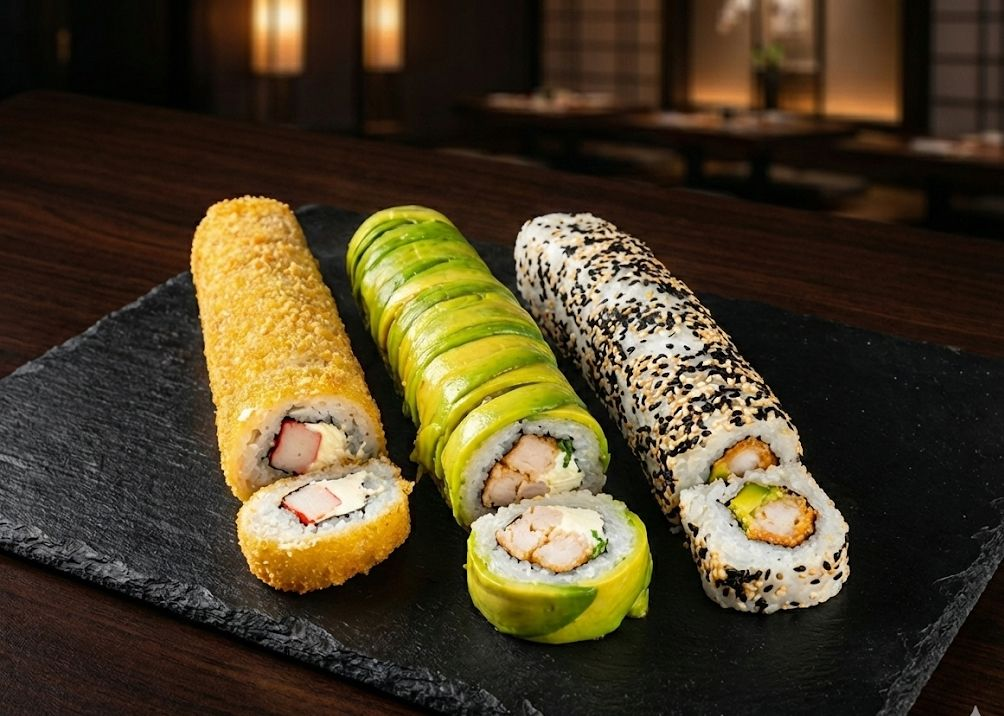
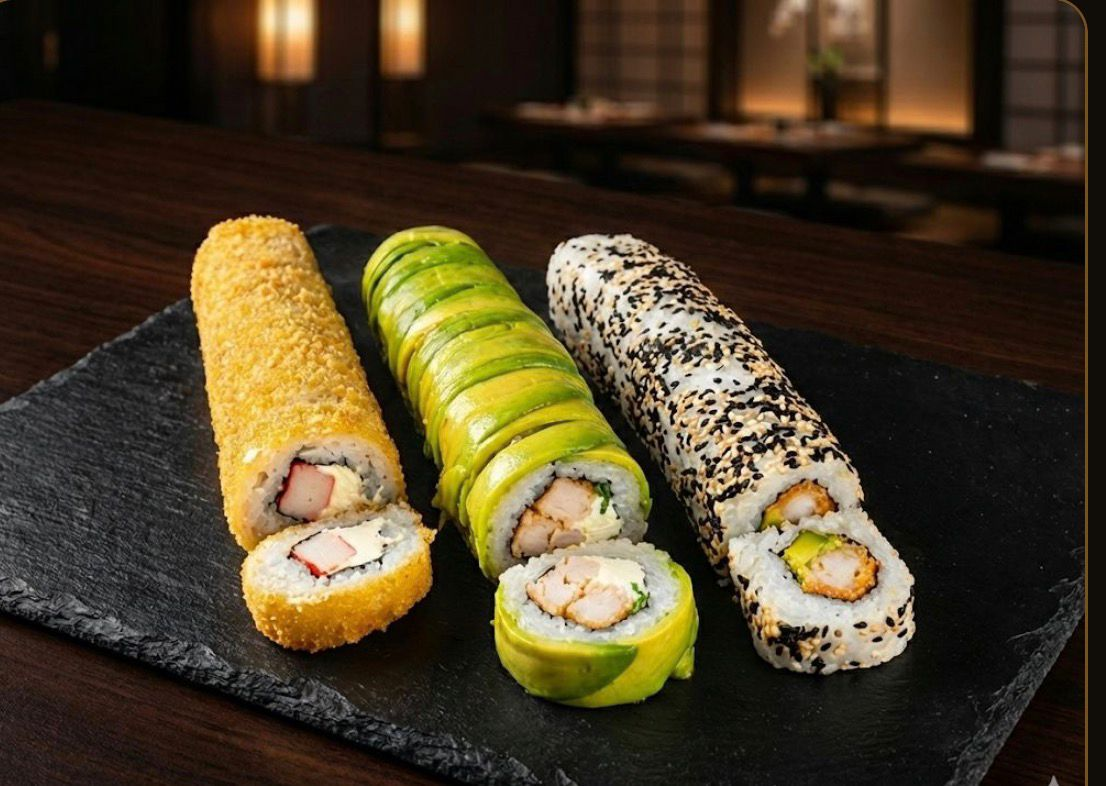
Actualizar fotos de promos, gyosas con imagen por cocción y descripciones Día del Sushi
- Reemplaza fotos de Promo 20 Fritas/Premium, 30 Fritas/Mixtas y 40 Mixtas
- Agrega imagen de gyosas que cambia según Frita/Al Vapor en ENTRADAS
- Indica tamaño "Lata 350ml" en las bebidas
- Agrega descripciones detalladas a las promos del Día del Sushi (menú y poster)
- Activa la campaña Día del Sushi (modal, botones y sección) y quita "c/u" del monto
- Sube caché del service worker a voraz-v3

diff --git a/index.html b/index.html
@@ -1162,14 +1162,17 @@
                 <!-- Promo Frita -->
                 <div class="relative bg-slate-900 rounded-lg overflow-hidden shadow-sm border border-slate-700 flex flex-col">
                     <span class="badge-nuevo">Nuevo</span>
-                    <img src="img/promo-frita.jpeg" alt="Promo Frita - 20 rollos fritos" class="w-full aspect-[11/10] object-cover object-center bg-slate-800" loading="lazy">
+                    <img src="img/promo-frita.jpeg" alt="Promo Frita - 20 piezas fritas" class="w-full aspect-[11/10] object-cover object-center bg-slate-800" loading="lazy">
                     <div class="p-3 flex flex-col flex-grow">
                         <div class="flex justify-between items-baseline">
                             <h3 class="text-xl text-white">Promo Frita</h3>
                             <span class="text-amber-600 font-bold">$7.490</span>
                         </div>
-                        <p class="text-xs text-amber-600 mb-2">(20 rollos)</p>
-                        <p class="text-xs text-slate-400 mb-3 flex-grow">Combo frito · 20 rollos.</p>
+                        <p class="text-xs text-amber-600 mb-2">(20 piezas)</p>
+                        <ul class="text-xs text-slate-400 mb-3 flex-grow space-y-1.5">
+                            <li class="flex items-start gap-1.5"><i class="fas fa-circle text-[5px] text-amber-500 mt-1.5"></i><span>10 piezas envueltas en nori frito con relleno de queso crema, cebollín y topping de pollo con teriyaki</span></li>
+                            <li class="flex items-start gap-1.5"><i class="fas fa-circle text-[5px] text-amber-500 mt-1.5"></i><span>10 piezas fritas rellenas de queso crema y kanikama, coronadas con pasta dinamita</span></li>
+                        </ul>
                         <!-- Fila de agregar (botón propio de la sección; se ve cuando seccion está encendida) -->
                         <div class="flex items-center justify-end gap-2 mt-auto">
                             <div class="flex items-center bg-slate-800 rounded-full">
@@ -1177,7 +1180,7 @@
                                 <input id="qtyDiaSushi1" type="number" value="1" min="1" max="10" class="w-8 bg-transparent text-white text-center text-sm focus:outline-none">
                                 <button onclick="changeQty('qtyDiaSushi1', 1)" class="w-6 h-6 text-white hover:bg-slate-700 rounded-full text-sm">+</button>
                             </div>
-                            <button onclick="addWithQty('Promo Frita (20 rollos)', 7490, 'qtyDiaSushi1')" class="text-xs bg-amber-500 hover:bg-amber-600 text-white px-3 py-1.5 rounded-full font-bold transition-colors click-shrink flex items-center gap-1">
+                            <button onclick="addWithQty('Promo Frita (20 piezas)', 7490, 'qtyDiaSushi1')" class="text-xs bg-amber-500 hover:bg-amber-600 text-white px-3 py-1.5 rounded-full font-bold transition-colors click-shrink flex items-center gap-1">
                                 <i class="fas fa-plus"></i> AGREGAR
                             </button>
                         </div>
@@ -1187,14 +1190,17 @@
                 <!-- Promo Fría -->
                 <div class="relative bg-slate-900 rounded-lg overflow-hidden shadow-sm border border-slate-700 flex flex-col">
                     <span class="badge-nuevo">Nuevo</span>
-                    <img src="img/promo-fria.jpeg" alt="Promo Fría - 20 rollos fríos" class="w-full aspect-[11/10] object-cover object-center bg-slate-800" loading="lazy">
+                    <img src="img/promo-fria.jpeg" alt="Promo Fría - 20 piezas frías" class="w-full aspect-[11/10] object-cover object-center bg-slate-800" loading="lazy">
                     <div class="p-3 flex flex-col flex-grow">
                         <div class="flex justify-between items-baseline">
                             <h3 class="text-xl text-white">Promo Fría</h3>
                             <span class="text-amber-600 font-bold">$7.490</span>
                         </div>
-                        <p class="text-xs text-amber-600 mb-2">(20 rollos)</p>
-                        <p class="text-xs text-slate-400 mb-3 flex-grow">Combo frío · 20 rollos.</p>
+                        <p class="text-xs text-amber-600 mb-2">(20 piezas)</p>
+                        <ul class="text-xs text-slate-400 mb-3 flex-grow space-y-1.5">
+                            <li class="flex items-start gap-1.5"><i class="fas fa-circle text-[5px] text-amber-500 mt-1.5"></i><span>10 piezas frías rellenas de palta y queso crema con topping de camarón y salsa acevichada</span></li>
+                            <li class="flex items-start gap-1.5"><i class="fas fa-circle text-[5px] text-amber-500 mt-1.5"></i><span>10 piezas envueltas en sésamo con relleno de pollo, palta y queso crema, bañadas en salsa de maracuyá</span></li>
+                        </ul>
                         <!-- Fila de agregar (botón propio de la sección; se ve cuando seccion está encendida) -->
                         <div class="flex items-center justify-end gap-2 mt-auto">
                             <div class="flex items-center bg-slate-800 rounded-full">
@@ -1202,7 +1208,7 @@
                                 <input id="qtyDiaSushi2" type="number" value="1" min="1" max="10" class="w-8 bg-transparent text-white text-center text-sm focus:outline-none">
                                 <button onclick="changeQty('qtyDiaSushi2', 1)" class="w-6 h-6 text-white hover:bg-slate-700 rounded-full text-sm">+</button>
                             </div>
-                            <button onclick="addWithQty('Promo Fría (20 rollos)', 7490, 'qtyDiaSushi2')" class="text-xs bg-amber-500 hover:bg-amber-600 text-white px-3 py-1.5 rounded-full font-bold transition-colors click-shrink flex items-center gap-1">
+                            <button onclick="addWithQty('Promo Fría (20 piezas)', 7490, 'qtyDiaSushi2')" class="text-xs bg-amber-500 hover:bg-amber-600 text-white px-3 py-1.5 rounded-full font-bold transition-colors click-shrink flex items-center gap-1">
                                 <i class="fas fa-plus"></i> AGREGAR
                             </button>
                         </div>
@@ -2066,7 +2072,7 @@
 
                 <!-- Promo 20 Voraz Fritas -->
                 <div class="bg-slate-900 rounded-xl border border-slate-700 hover:border-amber-500/50 transition-all shadow-sm hover:shadow-md overflow-hidden">
-                    <img src="img/20-voraz-fritos.jpeg" alt="20 Voraz Fritos" class="w-full object-contain bg-slate-800" loading="lazy">
+                    <img src="img/20-voraz-fritos.png" alt="20 Voraz Fritos" class="w-full object-contain bg-slate-800" loading="lazy">
                     <div class="bg-gradient-to-r from-slate-800 to-slate-700 border-b border-slate-700 p-3 flex items-center justify-between">
                         <div>
                             <span class="text-xl md:text-2xl font-bold text-white">20 Voraz</span>
@@ -2150,7 +2156,7 @@
 
                 <!-- Promo 20 Voraz Mixtas Premium -->
                 <div class="bg-slate-900 rounded-xl border border-slate-700 hover:border-amber-500/50 transition-all shadow-sm hover:shadow-md overflow-hidden">
-                    <img src="img/20-voraz-premium.jpeg" alt="20 Voraz Mixtas Premium" class="w-full object-contain bg-slate-800" loading="lazy">
+                    <img src="img/20-voraz-premium.png" alt="20 Voraz Mixtas Premium" class="w-full object-contain bg-slate-800" loading="lazy">
                     <div class="bg-gradient-to-r from-slate-800 to-slate-700 border-b border-slate-700 p-3 flex items-center justify-between">
                         <div>
                             <span class="text-2xl font-bold">20 Voraz</span>
@@ -2192,7 +2198,7 @@
 
                 <!-- Promo 30 Voraz Fritas -->
                 <div class="bg-slate-900 rounded-xl border border-slate-700 hover:border-amber-500/50 transition-all shadow-sm hover:shadow-md overflow-hidden">
-                    <img src="img/30-voraz-fritas.jpeg" alt="30 Voraz Fritas" class="w-full object-contain bg-slate-800" loading="lazy">
+                    <img src="img/30-voraz-fritas.png" alt="30 Voraz Fritas" class="w-full object-contain bg-slate-800" loading="lazy">
                     <div class="bg-gradient-to-r from-slate-800 to-slate-700 border-b border-slate-700 p-3 flex items-center justify-between">
                         <div>
                             <span class="text-xl md:text-2xl font-bold text-white">30 Voraz</span>
@@ -2334,7 +2340,7 @@
 
                 <!-- Promo 40 Voraz Mixtas -->
                 <div class="bg-slate-900 rounded-xl border border-slate-700 hover:border-amber-500/50 transition-all shadow-sm hover:shadow-md overflow-hidden">
-                    <img src="img/40-voraz-mixtas.jpeg" alt="40 Voraz Mixtas" class="w-full object-contain bg-slate-800" loading="lazy">
+                    <img src="img/40-voraz-mixtas.png" alt="40 Voraz Mixtas" class="w-full object-contain bg-slate-800" loading="lazy">
                     <div class="bg-gradient-to-r from-slate-800 to-slate-700 border-b border-slate-700 p-3 flex items-center justify-between">
                         <div>
                             <span class="text-xl md:text-2xl font-bold text-white">40 Voraz</span>
@@ -2905,6 +2911,8 @@
                      <h3 class="text-xl text-white mb-2"><i class="fas fa-dumpling text-amber-500 mr-2"></i> GYOSAS (5 Unid.)</h3>
                      <p class="text-slate-400 italic text-xs mb-3">Empanaditas japonesas</p>
 
+                     <img id="gyosaImg" src="img/gyosa-frita.jpeg" alt="Gyosas Fritas" class="w-full h-44 object-cover rounded-lg mb-3 bg-slate-800">
+
                      <div class="space-y-3">
                         <!-- Gyosa Cerdo -->
                         <div class="border-b border-slate-700 pb-3">
@@ -3054,23 +3062,26 @@
                 <h2 class="text-3xl text-white mr-2">BEBIDAS <span class="text-blue-500">🥤</span></h2>
                 <div class="h-0.5 bg-slate-700 flex-grow"></div>
             </div>
-            <p class="text-slate-400 text-xs mb-4 italic">Refrescantes bebidas para acompañar</p>
+            <p class="text-slate-400 text-xs mb-4 italic">Refrescantes bebidas para acompañar · Lata 350ml</p>
 
             <div class="bg-slate-900 p-3 rounded-lg border border-slate-700 shadow-sm">
                 <div class="grid grid-cols-3 gap-2">
-                    <button onclick="addToCart('Coca-Cola', 1000)" class="bg-red-600 hover:bg-red-700 text-white py-2 px-1.5 rounded-lg text-xs font-bold click-shrink flex flex-col items-center justify-center gap-0.5">
+                    <button onclick="addToCart('Coca-Cola (Lata 350ml)', 1000)" class="bg-red-600 hover:bg-red-700 text-white py-2 px-1.5 rounded-lg text-xs font-bold click-shrink flex flex-col items-center justify-center gap-0.5">
                         <i class="fas fa-wine-bottle text-sm"></i>
                         <span>Coca-Cola</span>
+                        <span class="text-[9px] opacity-80">Lata 350ml</span>
                         <span class="text-[10px]">$1.000</span>
                     </button>
-                    <button onclick="addToCart('Fanta', 1000)" class="bg-orange-500 hover:bg-orange-600 text-white py-2 px-1.5 rounded-lg text-xs font-bold click-shrink flex flex-col items-center justify-center gap-0.5">
+                    <button onclick="addToCart('Fanta (Lata 350ml)', 1000)" class="bg-orange-500 hover:bg-orange-600 text-white py-2 px-1.5 rounded-lg text-xs font-bold click-shrink flex flex-col items-center justify-center gap-0.5">
                         <i class="fas fa-wine-bottle text-sm"></i>
                         <span>Fanta</span>
+                        <span class="text-[9px] opacity-80">Lata 350ml</span>
                         <span class="text-[10px]">$1.000</span>
                     </button>
-                    <button onclick="addToCart('Sprite', 1000)" class="bg-green-500 hover:bg-green-600 text-white py-2 px-1.5 rounded-lg text-xs font-bold click-shrink flex flex-col items-center justify-center gap-0.5">
+                    <button onclick="addToCart('Sprite (Lata 350ml)', 1000)" class="bg-green-500 hover:bg-green-600 text-white py-2 px-1.5 rounded-lg text-xs font-bold click-shrink flex flex-col items-center justify-center gap-0.5">
                         <i class="fas fa-wine-bottle text-sm"></i>
                         <span>Sprite</span>
+                        <span class="text-[9px] opacity-80">Lata 350ml</span>
                         <span class="text-[10px]">$1.000</span>
                     </button>
                 </div>
@@ -3422,8 +3433,8 @@
         // ============================================
         const DIA_SUSHI = {
             modal: true,       // 1) ventana emergente al entrar/refrescar (solo el afiche, sin botón)
-            modalBoton: false, // 2) botón AGREGAR dentro del modal (agrega la promo automático al carrito)
-            seccion: false,    // 3) sección "Día del Sushi" + pestaña (sus tarjetas traen su propio botón)
+            modalBoton: true,  // 2) botón AGREGAR dentro del modal (agrega la promo automático al carrito)
+            seccion: true,     // 3) sección "Día del Sushi" + pestaña (sus tarjetas traen su propio botón)
         };
 
         function openDiaSushiModal() {
@@ -3475,6 +3486,18 @@
                 btnVapor.classList.remove('text-slate-400');
                 btnFrita.classList.remove('bg-amber-500', 'text-white');
                 btnFrita.classList.add('text-slate-400');
+            }
+
+            // Mostrar la imagen según el tipo de cocción seleccionado
+            const gyosaImg = document.getElementById('gyosaImg');
+            if (gyosaImg) {
+                if (tipo === 'frita') {
+                    gyosaImg.src = 'img/gyosa-frita.jpeg';
+                    gyosaImg.alt = 'Gyosas Fritas';
+                } else {
+                    gyosaImg.src = 'img/gyosa-vapor.jpeg';
+                    gyosaImg.alt = 'Gyosas Al Vapor';
+                }
             }
         }
 
@@ -4568,7 +4591,7 @@
                  Las 2 ventanas grises (FOTO PROMO 1 / 2) son donde van tus fotos.
                  ============================================================ -->
             <svg viewBox="0 0 800 1060" xmlns="http://www.w3.org/2000/svg" role="img"
-                 aria-label="Promo Día del Sushi: 2 promos, $7.490 cada una, 20 rollos"
+                 aria-label="Promo Día del Sushi: 2 promos, $7.490 cada una, 20 piezas"
                  class="w-full rounded-[20px] shadow-2xl" style="display:block">
                 <defs>
                     <radialGradient id="dsBg" cx="22%" cy="-6%" r="120%">
@@ -4633,7 +4656,7 @@
                 <g>
                     <rect x="196" y="338" width="408" height="62" rx="31" fill="url(#dsGold)"/>
                     <rect x="196" y="338" width="408" height="62" rx="31" fill="none" stroke="#f4d488" stroke-opacity="0.5" stroke-width="1.5"/>
-                    <text x="400" y="379" text-anchor="middle" font-family="'Zen Kaku Gothic New', sans-serif" font-weight="900" font-size="27" letter-spacing="1.5" fill="#17110d">$7.490 c/u · 20 ROLLOS</text>
+                    <text x="400" y="379" text-anchor="middle" font-family="'Zen Kaku Gothic New', sans-serif" font-weight="900" font-size="27" letter-spacing="1.5" fill="#17110d">$7.490 · 20 PIEZAS</text>
                 </g>
 
                 <!-- Dos fotos (placeholders) -->
@@ -4649,13 +4672,19 @@
 
                 <!-- Nombres + descripción -->
                 <g font-family="'Zen Kaku Gothic New', sans-serif" text-anchor="middle">
-                    <text x="225" y="792" font-family="'Shippori Mincho', serif" font-weight="700" font-size="30" fill="#e6a838">Promo Frita</text>
-                    <text x="225" y="822" font-size="15" letter-spacing="3" fill="#bd7522">20 ROLLOS</text>
-                    <text x="225" y="858" font-size="14" fill="#b09a7f">Combo frito</text>
+                    <text x="225" y="766" font-family="'Shippori Mincho', serif" font-weight="700" font-size="28" fill="#e6a838">Promo Frita</text>
+                    <text x="225" y="788" font-size="13" letter-spacing="3" fill="#bd7522">20 PIEZAS</text>
+                    <text x="225" y="814" font-size="11.5" fill="#b09a7f">10 piezas envueltas en nori frito, queso</text>
+                    <text x="225" y="828" font-size="11.5" fill="#b09a7f">crema, cebollín y topping de pollo teriyaki</text>
+                    <text x="225" y="850" font-size="11.5" fill="#b09a7f">10 piezas fritas con queso crema y</text>
+                    <text x="225" y="864" font-size="11.5" fill="#b09a7f">kanikama, coronadas con pasta dinamita</text>
 
-                    <text x="575" y="792" font-family="'Shippori Mincho', serif" font-weight="700" font-size="30" fill="#e6a838">Promo Fría</text>
-                    <text x="575" y="822" font-size="15" letter-spacing="3" fill="#bd7522">20 ROLLOS</text>
-                    <text x="575" y="858" font-size="14" fill="#b09a7f">Combo frío</text>
+                    <text x="575" y="766" font-family="'Shippori Mincho', serif" font-weight="700" font-size="28" fill="#e6a838">Promo Fría</text>
+                    <text x="575" y="788" font-size="13" letter-spacing="3" fill="#bd7522">20 PIEZAS</text>
+                    <text x="575" y="814" font-size="11.5" fill="#b09a7f">10 piezas frías con palta y queso crema,</text>
+                    <text x="575" y="828" font-size="11.5" fill="#b09a7f">topping de camarón y salsa acevichada</text>
+                    <text x="575" y="850" font-size="11.5" fill="#b09a7f">10 piezas en sésamo con pollo, palta,</text>
+                    <text x="575" y="864" font-size="11.5" fill="#b09a7f">queso crema y bañadas en salsa de maracuyá</text>
                 </g>
 
                 <!-- Separador -->
@@ -4672,10 +4701,10 @@
 
             <!-- Botones AGREGAR del modal (visibilidad: DIA_SUSHI.modalBoton) -->
             <div id="diaSushiModalBtns" class="mt-3 grid grid-cols-2 gap-2" style="display:none">
-                <button onclick="addDiaSushiPromo('Promo Frita (20 rollos)', 7490)" class="bg-amber-500 hover:bg-amber-600 text-white px-3 py-2.5 rounded-full font-bold text-sm transition-colors click-shrink flex items-center justify-center gap-1">
+                <button onclick="addDiaSushiPromo('Promo Frita (20 piezas)', 7490)" class="bg-amber-500 hover:bg-amber-600 text-white px-3 py-2.5 rounded-full font-bold text-sm transition-colors click-shrink flex items-center justify-center gap-1">
                     <i class="fas fa-plus"></i> Promo Frita · $7.490
                 </button>
-                <button onclick="addDiaSushiPromo('Promo Fría (20 rollos)', 7490)" class="bg-amber-500 hover:bg-amber-600 text-white px-3 py-2.5 rounded-full font-bold text-sm transition-colors click-shrink flex items-center justify-center gap-1">
+                <button onclick="addDiaSushiPromo('Promo Fría (20 piezas)', 7490)" class="bg-amber-500 hover:bg-amber-600 text-white px-3 py-2.5 rounded-full font-bold text-sm transition-colors click-shrink flex items-center justify-center gap-1">
                     <i class="fas fa-plus"></i> Promo Fría · $7.490
                 </button>
             </div>

diff --git a/sw.js b/sw.js
@@ -2,7 +2,7 @@
    Estrategia: stale-while-revalidate — sirve desde caché al instante
    y actualiza en segundo plano. Permite abrir el menú sin conexión. */
 
-const CACHE = 'voraz-v2';
+const CACHE = 'voraz-v3';
 const CORE = ['./', './index.html', './manifest.json'];
 
 self.addEventListener('install', (event) => {